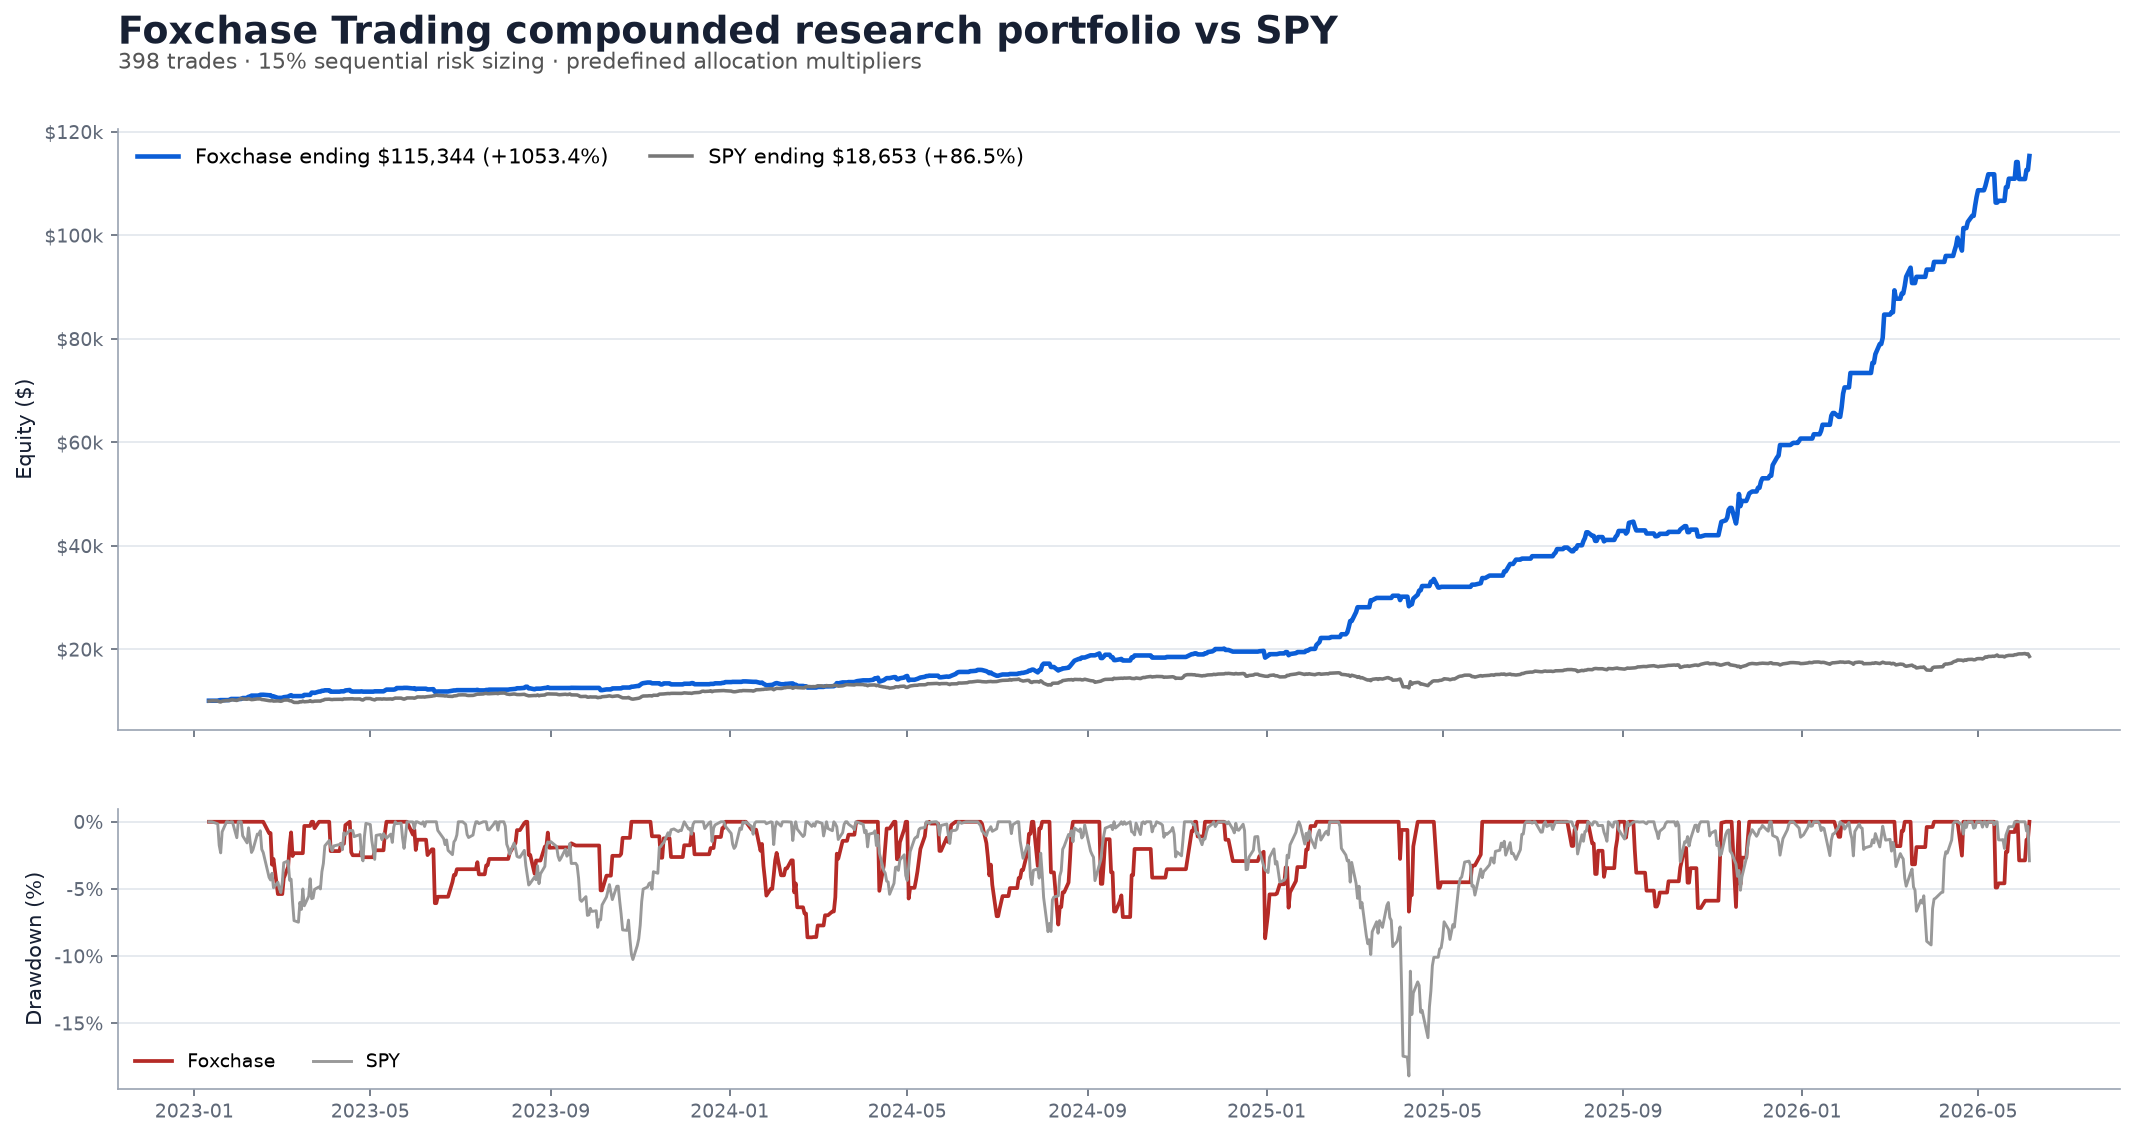
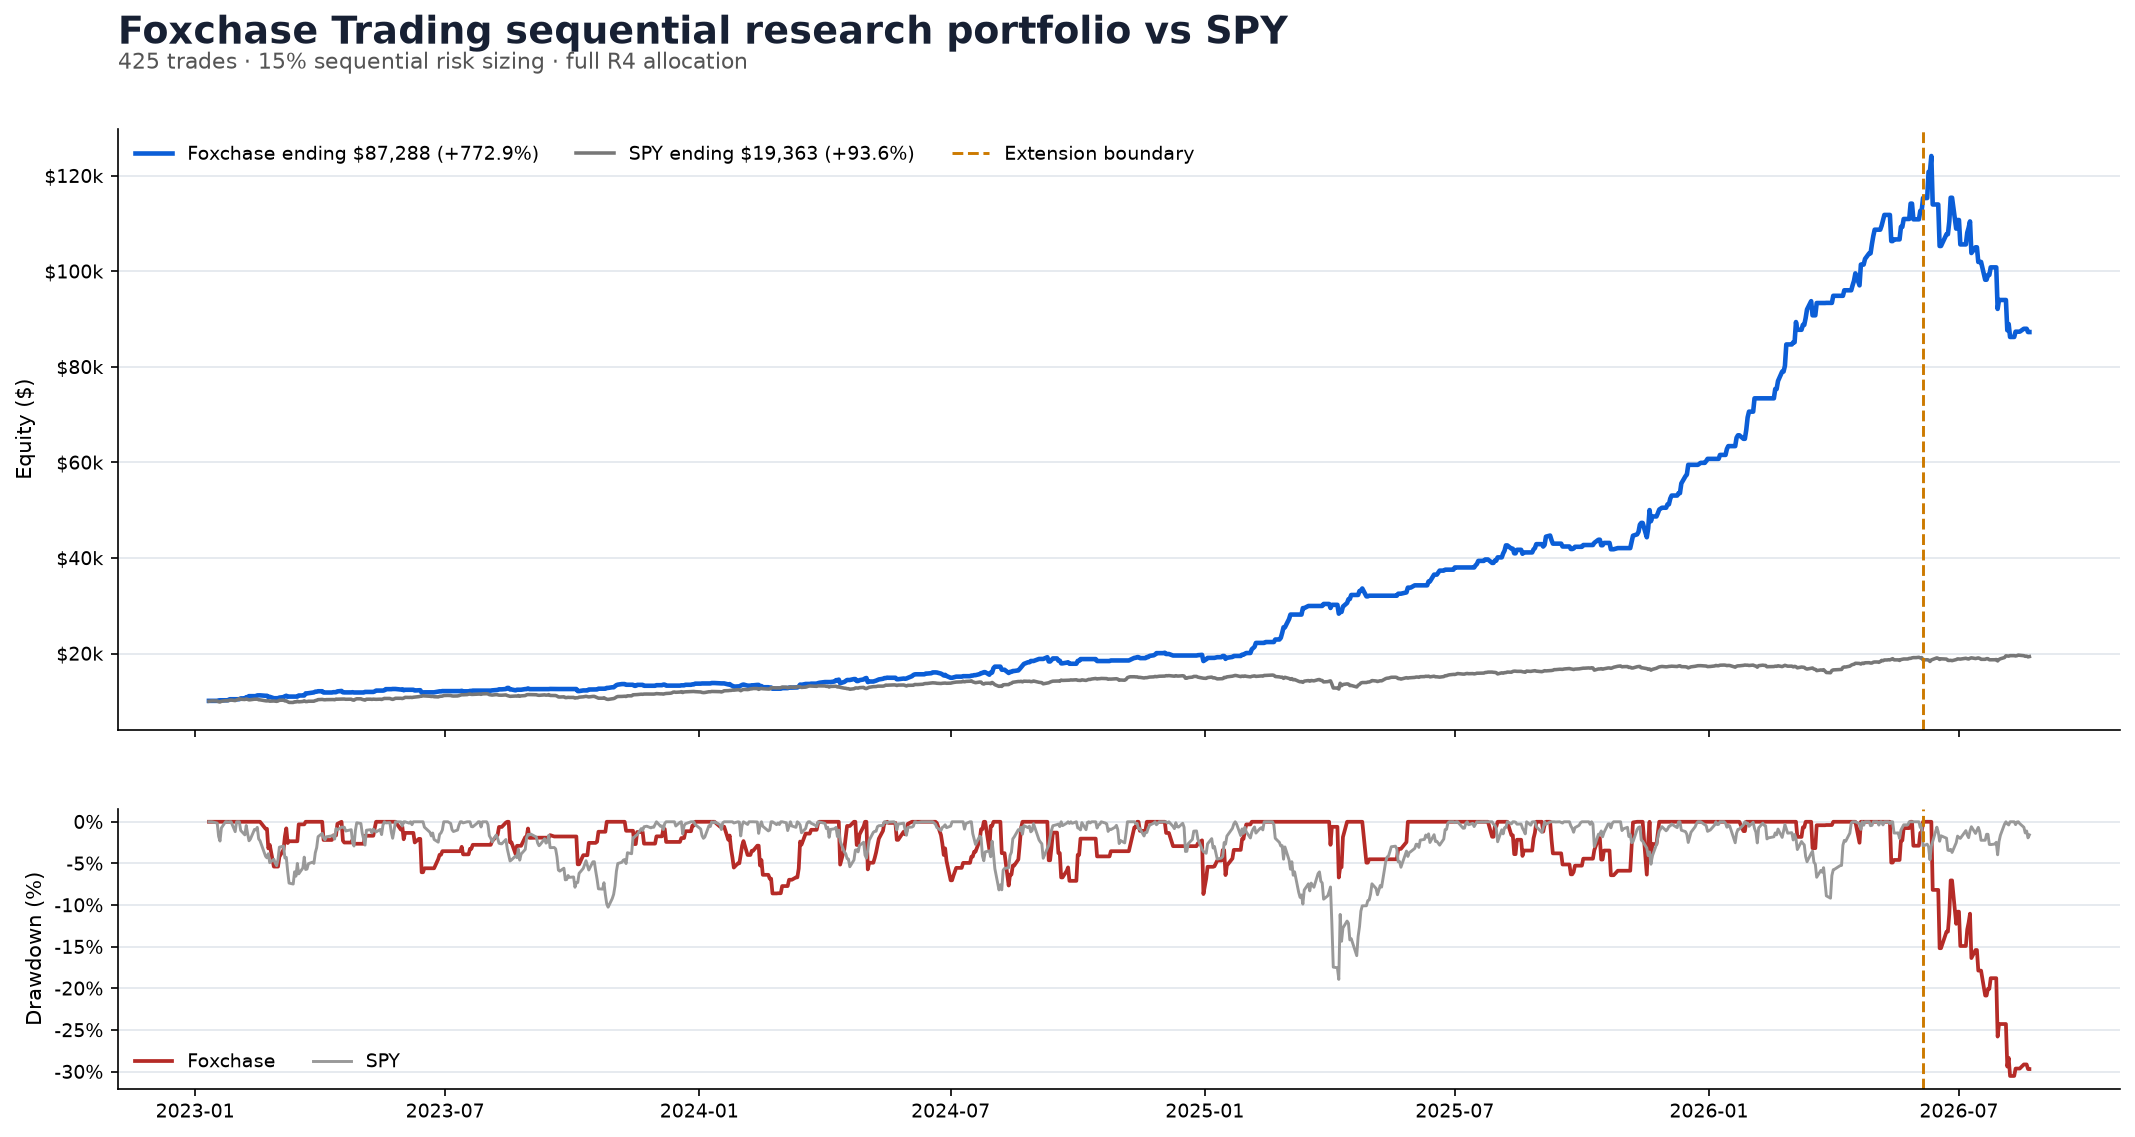
Update algo backtest through August 2026

diff --git a/algo-pnl.html b/algo-pnl.html
@@ -590,20 +590,14 @@ function setTextIfExists(id, value) {
 
     <h2>Research Backtest</h2>
     <div class="pnl-note"><strong>Research backtest, not live performance:</strong> Results are hypothetical and do not reflect the live account over the full test period. Past performance does not guarantee future results. <strong>Last updated August 22, 2026.</strong></div>
-    <div class="research-metrics"><div class="research-card"><div class="research-label">Backtest Sample</div><div class="research-value">398 trades</div></div><div class="research-card"><div class="research-label">Research P&amp;L</div><div class="research-value" id="researchPnl">+$23,797</div></div><div class="research-card"><div class="research-label">Ending Equity</div><div class="research-value" id="researchEndingEquity">$33,797</div></div><div class="research-card"><div class="research-label">CAGR</div><div class="research-value" id="researchCagr">43.11%</div></div><div class="research-card"><div class="research-label">Sharpe Ratio</div><div class="research-value" id="researchSharpe">3.131</div></div><div class="research-card"><div class="research-label">Max Drawdown</div><div class="research-value" id="researchMaxDrawdown">-6.47%</div></div><div class="research-card"><div class="research-label">Win Rate</div><div class="research-value">77.89%</div></div><div class="research-card"><div class="research-label">Average Trade</div><div class="research-value" id="researchAverageTrade">$59.79</div></div><div class="research-card"><div class="research-label">Risk Framework</div><div class="research-value" id="researchRiskFramework">15% fixed</div></div></div>
+    <div class="research-metrics"><div class="research-card"><div class="research-label">Backtest Sample</div><div class="research-value">425 trades</div></div><div class="research-card"><div class="research-label">Research P&amp;L</div><div class="research-value" id="researchPnl">+$21,425</div></div><div class="research-card"><div class="research-label">Ending Equity</div><div class="research-value" id="researchEndingEquity">$31,425</div></div><div class="research-card"><div class="research-label">CAGR</div><div class="research-value" id="researchCagr">37.38%</div></div><div class="research-card"><div class="research-label">Sharpe Ratio</div><div class="research-value" id="researchSharpe">4.250</div></div><div class="research-card"><div class="research-label">Max Drawdown</div><div class="research-value" id="researchMaxDrawdown">-9.20%</div></div><div class="research-card"><div class="research-label">Win Rate</div><div class="research-value" id="researchWinRate">76.71%</div></div><div class="research-card"><div class="research-label">Average Trade</div><div class="research-value" id="researchAverageTrade">$50.41</div></div><div class="research-card"><div class="research-label">Profit Factor</div><div class="research-value" id="researchProfitFactor">1.95</div></div><div class="research-card"><div class="research-label">Risk Framework</div><div class="research-value" id="researchRiskFramework">15% fixed</div></div></div>
     <div style="display:flex;gap:8px;flex-wrap:wrap;margin:18px 0 0;" role="group" aria-label="Research chart sizing">
       <button type="button" id="fixedSizingButton" class="btn btn-dark btn-sm" onclick="showResearchSizing('fixed')">15% fixed · Non-compounding</button>
       <button type="button" id="compoundedSizingButton" class="btn btn-outline-dark btn-sm" onclick="showResearchSizing('compounded')">15% · Compounded</button>
     </div>
-    <div class="chart-box research-chart-box"><img id="researchSizingChart" src="/images/foxchase_fixed_risk_vs_spy.png?v=20260822-public-sizing-toggle" alt="Foxchase Trading fixed-risk research portfolio versus SPY buy and hold"></div>
+    <div class="chart-box research-chart-box"><img id="researchSizingChart" src="/images/foxchase_fixed_risk_vs_spy.png?v=20260822-validated-combined" alt="Foxchase Trading fixed-risk research portfolio versus SPY buy and hold"></div>
     <p class="small" id="researchSizingNote"><strong>Sizing note:</strong> This comparison uses a fixed 15% target-risk budget based on the $10,000 starting account rather than increasing risk as equity grows. Predefined allocation multipliers still apply.</p>
-    <p class="small">Test window: January 4, 2023 through June 5, 2026, using the same dates for the SPY benchmark. Setup labels are intentionally anonymized.</p>
-    <h3 style="margin-top:30px;">Rolling and Sequence-Risk Validation</h3>
-    <p class="small">Rolling results below use the current 15% live-risk assumption and predefined allocation multipliers. Across the pre-2026 portion, the strategy returned 415.68% versus 72.58% for aligned SPY price performance while retaining a lower historical drawdown.</p>
-    <div class="research-table-wrap"><table class="research-table"><thead><tr><th>Rolling Window</th><th>Windows</th><th>Profitable</th><th>Worst Return</th><th>Worst Drawdown</th></tr></thead><tbody><tr><td>30 trades</td><td>369</td><td>94.31%</td><td>-5.76%</td><td>-9.30%</td></tr><tr><td>60 trades</td><td>339</td><td>99.71%</td><td>-0.11%</td><td>-9.31%</td></tr><tr><td>90 trades</td><td>309</td><td>100.00%</td><td>1.83%</td><td>-9.32%</td></tr><tr><td>3 months</td><td>42</td><td>92.86%</td><td>-4.39%</td><td>-9.21%</td></tr><tr><td>6 months</td><td>42</td><td>97.62%</td><td>-0.62%</td><td>-9.21%</td></tr><tr><td>12 months</td><td>42</td><td>100.00%</td><td>4.28%</td><td>-9.22%</td></tr></tbody></table></div>
-    <p class="small"><strong>Sequence-risk test:</strong> 10,000 simulations resampled complete trading weeks so clustered winning and losing periods remained together. The severe estimate is the 95th percentile, meaning only 5% of simulated paths were worse. Simulated drawdowns are scenario estimates, not forecasts or guarantees.</p>
-    <div class="research-table-wrap"><table class="research-table"><thead><tr><th>Sizing</th><th>Observed Return</th><th>Historical Max Drawdown</th><th>Typical Simulated Drawdown</th><th>Severe Simulated Drawdown</th></tr></thead><tbody><tr><td>10% compounded</td><td>347.40%</td><td>-6.25%</td><td>-7.97%</td><td>-12.12%</td></tr><tr><td>15% compounded</td><td>883.26%</td><td>-9.35%</td><td>-12.22%</td><td>-18.47%</td></tr><tr><td>20% compounded</td><td>2025.35%</td><td>-12.39%</td><td>-16.18%</td><td>-24.09%</td></tr></tbody></table></div>
-    <div class="research-table-wrap"><table class="research-table"><thead><tr><th>Setup</th><th>Trades</th><th>P&amp;L</th><th>Win Rate</th><th>Profit Factor</th><th>Avg Trade</th></tr></thead><tbody><tr><td>Setup A</td><td>36</td><td>$6,126.00</td><td>77.78%</td><td>3.08</td><td>$170.17</td></tr><tr><td>Setup B</td><td>22</td><td>$4,560.00</td><td>86.36%</td><td>4.44</td><td>$207.27</td></tr><tr><td>Setup C</td><td>33</td><td>$4,405.00</td><td>90.91%</td><td>10.53</td><td>$133.48</td></tr><tr><td>Setup D</td><td>27</td><td>$3,850.00</td><td>77.78%</td><td>2.70</td><td>$142.59</td></tr><tr><td>Setup E</td><td>68</td><td>$3,278.00</td><td>77.94%</td><td>1.60</td><td>$48.21</td></tr><tr><td>Setup F</td><td>95</td><td>$3,076.00</td><td>75.79%</td><td>1.48</td><td>$32.38</td></tr><tr><td>Setup G</td><td>11</td><td>$3,037.00</td><td>90.91%</td><td>9.44</td><td>$276.09</td></tr><tr><td>Setup H</td><td>62</td><td>$2,185.00</td><td>72.58%</td><td>3.18</td><td>$35.24</td></tr><tr><td>Setup I</td><td>36</td><td>$1,026.00</td><td>72.22%</td><td>1.33</td><td>$28.50</td></tr><tr><td>Setup J</td><td>8</td><td>$929.00</td><td>75.00%</td><td>3.60</td><td>$116.12</td></tr></tbody></table></div>
+    <p class="small"><strong>Data through August 21, 2026.</strong> The frozen historical segment ends June 5, 2026; 27 validated extension trades are appended through August 20, with the final market observation on August 21. The dashed line marks the boundary. Setup labels are intentionally anonymized.</p><h3 style="margin-top:30px;">Validated Period Reconciliation</h3><div class="research-table-wrap"><table class="research-table"><thead><tr><th>Period</th><th>Trades</th><th>Starting Equity</th><th>P&amp;L</th><th>Ending Equity</th></tr></thead><tbody><tr><td>Frozen historical</td><td>398</td><td>$10,000</td><td>+$105,344</td><td>$115,344</td></tr><tr><td>Forward extension</td><td>27</td><td>$115,344</td><td>-$28,056</td><td>$87,288</td></tr><tr><td>Combined</td><td>425</td><td>$10,000</td><td>+$77,288</td><td>$87,288</td></tr></tbody></table></div><h3 style="margin-top:30px;">Regime Contribution</h3><p class="small">Contribution uses the unchanged 15% sequential full-R4 portfolio.</p><div class="research-table-wrap"><table class="research-table"><thead><tr><th>Regime</th><th>Trades</th><th>P&amp;L</th></tr></thead><tbody><tr><td>R1</td><td>116</td><td>+$46,826</td></tr><tr><td>R4</td><td>204</td><td>+$8,380</td></tr><tr><td>R5</td><td>105</td><td>+$22,082</td></tr></tbody></table></div><h3 style="margin-top:30px;">Rolling Performance Validation</h3><p class="small">Rolling windows use the unchanged 15% sequential full-R4 portfolio through the latest validated observation. Calendar windows use consecutive month-end equity observations.</p><div class="research-table-wrap"><table class="research-table"><thead><tr><th>Rolling Window</th><th>Windows</th><th>Profitable</th><th>Worst Return</th><th>Worst Drawdown</th></tr></thead><tbody><tr><td>30 trades</td><td>396</td><td>91.92%</td><td>-23.55%</td><td>-30.51%</td></tr><tr><td>60 trades</td><td>366</td><td>99.45%</td><td>-1.58%</td><td>-30.51%</td></tr><tr><td>90 trades</td><td>336</td><td>100.00%</td><td>4.68%</td><td>-30.51%</td></tr><tr><td>3 months</td><td>42</td><td>92.86%</td><td>-21.28%</td><td>-21.28%</td></tr><tr><td>6 months</td><td>39</td><td>100.00%</td><td>0.76%</td><td>-21.28%</td></tr><tr><td>12 months</td><td>33</td><td>100.00%</td><td>14.68%</td><td>-21.28%</td></tr></tbody></table></div><h3 style="margin-top:30px;">Fixed-Risk Setup Results</h3><p class="small">Setup P&amp;L uses the default fixed 15% non-compounding view.</p><div class="research-table-wrap"><table class="research-table"><thead><tr><th>Setup</th><th>Trades</th><th>P&amp;L</th><th>Win Rate</th><th>Profit Factor</th><th>Avg Trade</th></tr></thead><tbody><tr><td>Setup A</td><td>39</td><td>$2,673.00</td><td>71.79%</td><td>1.67</td><td>$68.54</td></tr><tr><td>Setup B</td><td>27</td><td>$4,856.00</td><td>88.89%</td><td>6.34</td><td>$179.85</td></tr><tr><td>Setup C</td><td>33</td><td>$3,215.00</td><td>90.91%</td><td>10.74</td><td>$97.42</td></tr><tr><td>Setup D</td><td>27</td><td>$2,799.00</td><td>77.78%</td><td>2.67</td><td>$103.67</td></tr><tr><td>Setup E</td><td>76</td><td>$1,975.00</td><td>77.63%</td><td>1.37</td><td>$25.99</td></tr><tr><td>Setup F</td><td>101</td><td>$775.00</td><td>73.27%</td><td>1.12</td><td>$7.67</td></tr><tr><td>Setup G</td><td>13</td><td>$2,598.00</td><td>92.31%</td><td>10.62</td><td>$199.85</td></tr><tr><td>Setup H</td><td>64</td><td>$1,636.00</td><td>71.88%</td><td>3.13</td><td>$25.56</td></tr><tr><td>Setup I</td><td>37</td><td>$211.00</td><td>70.27%</td><td>1.08</td><td>$5.70</td></tr><tr><td>Setup J</td><td>8</td><td>$687.00</td><td>75.00%</td><td>3.69</td><td>$85.88</td></tr></tbody></table></div>
   </div>
 
   <script>
@@ -615,17 +609,23 @@ function setTextIfExists(id, value) {
       if (!chart || !note || !fixed || !compounded) return;
       const isCompounded = mode === "compounded";
       chart.src = isCompounded
-        ? "/images/foxchase_compounded_15pct_vs_spy.png?v=20260822-public-sizing-toggle"
-        : "/images/foxchase_fixed_risk_vs_spy.png?v=20260822-public-sizing-toggle";
+        ? "/images/foxchase_compounded_15pct_vs_spy.png?v=20260822-validated-combined"
+        : "/images/foxchase_fixed_risk_vs_spy.png?v=20260822-validated-combined";
       const metrics = isCompounded
-        ? { pnl: "+$105,344", ending: "$115,344", cagr: "105.38%", sharpe: "5.502", drawdown: "-8.68%", average: "$264.68", framework: "15% sequential" }
-        : { pnl: "+$23,797", ending: "$33,797", cagr: "43.11%", sharpe: "3.131", drawdown: "-6.47%", average: "$59.79", framework: "15% fixed" };
+        ? { pnl: "+$77,288", ending: "$87,288", cagr: "82.37%", sharpe: "4.110", drawdown: "-30.51%", winRate: "76.71%", profitFactor: "1.67", average: "$181.85", framework: "15% sequential" }
+        : { pnl: "+$21,425", ending: "$31,425", cagr: "37.38%", sharpe: "4.250", drawdown: "-9.20%", winRate: "76.71%", profitFactor: "1.95", average: "$50.41", framework: "15% fixed" };
       document.getElementById("researchPnl").textContent = metrics.pnl;
       document.getElementById("researchEndingEquity").textContent = metrics.ending;
       document.getElementById("researchCagr").textContent = metrics.cagr;
       document.getElementById("researchSharpe").textContent = metrics.sharpe;
       document.getElementById("researchMaxDrawdown").textContent = metrics.drawdown;
       document.getElementById("researchAverageTrade").textContent = metrics.average;
+      document.getElementById("researchWinRate").textContent = metrics.winRate;
+      document.getElementById("researchProfitFactor").textContent = metrics.profitFactor;
+
+
+
+
       document.getElementById("researchRiskFramework").textContent = metrics.framework;
       note.innerHTML = isCompounded
         ? "<strong>Sizing note:</strong> This graph uses the validated 15% sequential compounded risk framework and predefined allocation multipliers. Validated runner management is enabled. This hypothetical research curve is separate from the live account performance shown above."
